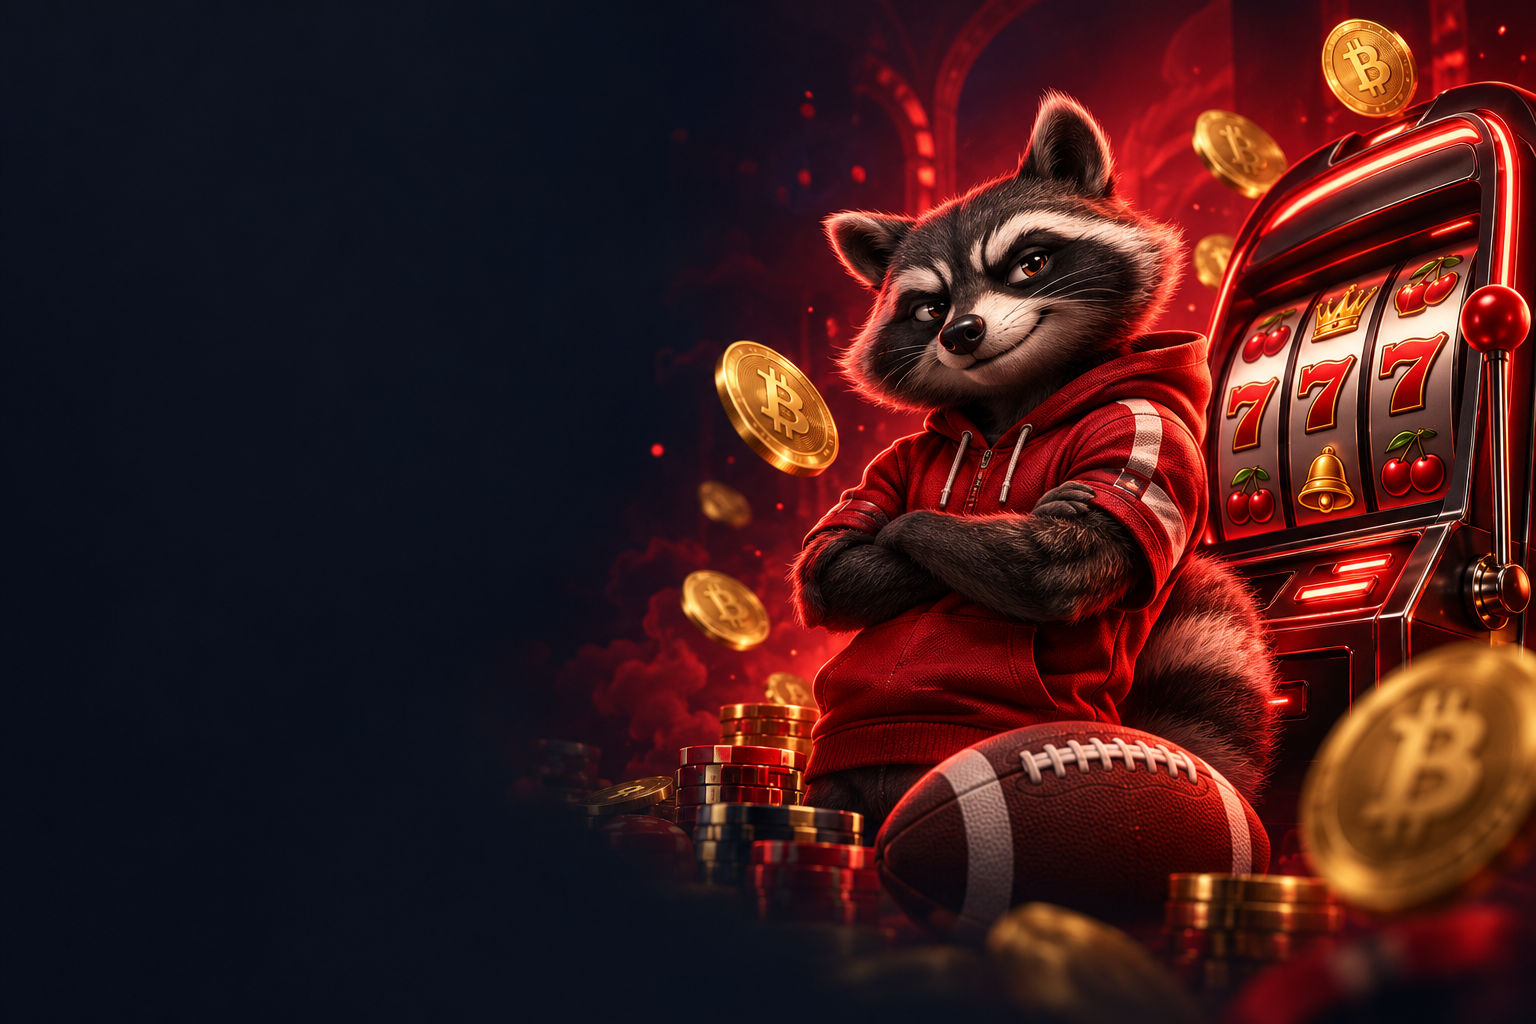
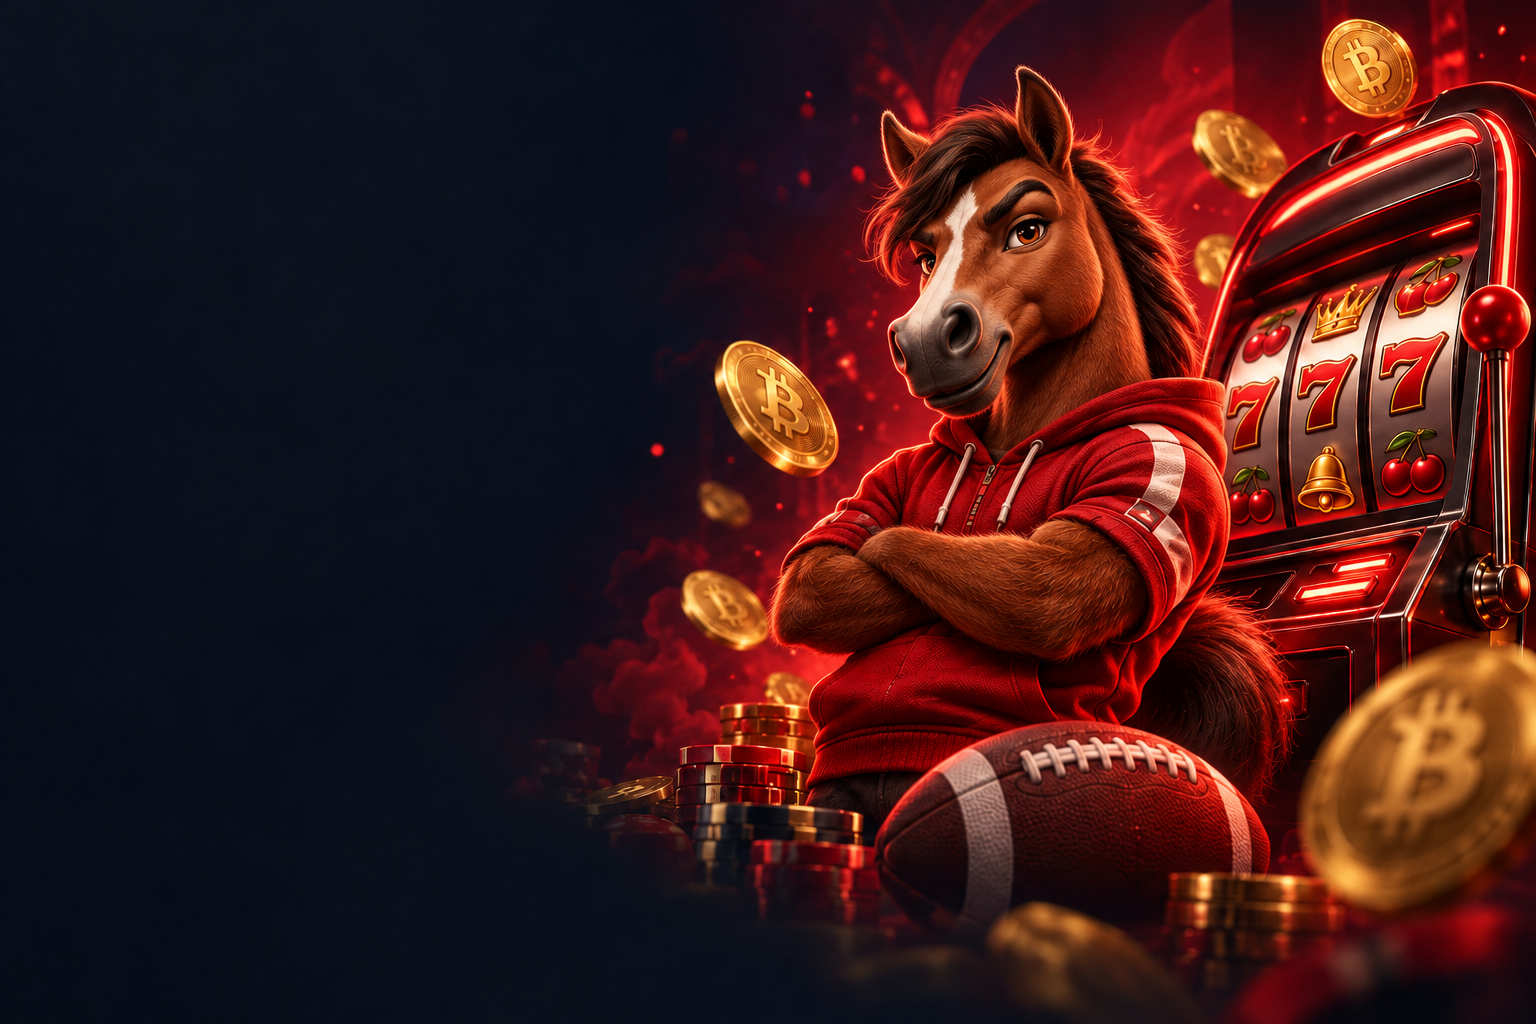
Update Site source

diff --git a/components/CasinoApp.jsx b/components/CasinoApp.jsx
@@ -46,9 +46,9 @@ export default function CasinoApp() {
   const [query, setQuery] = useState("");
   const [sport, setSport] = useState("Fútbol");
   useEffect(() => {
-    const savedFavorites = readLocal("betfury-demo-favorites", []);
+    const savedFavorites = readLocal("horsebet-demo-favorites", []);
     setFavorites(Array.isArray(savedFavorites) ? savedFavorites : []);
-    const savedUser = readLocal("betfury-demo-user", "");
+    const savedUser = readLocal("horsebet-demo-user", "");
     setUser(typeof savedUser === "string" ? savedUser : "");
     const syncHash = () => {
       const page = window.location.hash.slice(1);
@@ -84,7 +84,7 @@ export default function CasinoApp() {
       const next = previous.includes(id)
         ? previous.filter((item) => item !== id)
         : [...previous, id];
-      saveLocal("betfury-demo-favorites", next);
+      saveLocal("horsebet-demo-favorites", next);
       return next;
     });
   const onPlay = (game) => setModal({ type: "game", game });
@@ -123,7 +123,7 @@ export default function CasinoApp() {
           <>
             <Hero onAction={open} />
             <div className="content">
-              <section className="destinations" aria-label="Explora BetFury">
+              <section className="destinations" aria-label="Explora HorseBet">
                 <button
                   className="destination destination--casino"
                   onClick={() => navigate("Casino")}
@@ -131,7 +131,7 @@ export default function CasinoApp() {
                   <span>
                     <strong>Casino</strong>
                     <span>
-                      Disfruta de BetFury Originals y otros juegos de
+                      Disfruta de HorseBet Originals y otros juegos de
                       <br className="desktop-break" /> casino de los mejores
                       proveedores.
                     </span>
@@ -269,7 +269,7 @@ export default function CasinoApp() {
                 ))}
               </section>
               <section className="about">
-                <h2>BetFury — Casino Cripto y Deportes</h2>
+                <h2>HorseBet — Casino Cripto y Deportes</h2>
                 <p>
                   Todo un universo de entretenimiento en un solo lugar. Descubre
                   juegos originales, explora tus slots favoritos y disfruta de
@@ -394,12 +394,12 @@ export default function CasinoApp() {
           user={user}
           onAuth={(alias) => {
             setUser(alias);
-            saveLocal("betfury-demo-user", alias);
+            saveLocal("horsebet-demo-user", alias);
             setModal(null);
           }}
           onLogout={() => {
             setUser("");
-            saveLocal("betfury-demo-user", "");
+            saveLocal("horsebet-demo-user", "");
             setModal(null);
           }}
         />

diff --git a/data/content.js b/data/content.js
@@ -37,36 +37,36 @@ export const originals = [
   {
     id: "dice",
     title: "Dice",
-    provider: "BETFURY",
+    provider: "HORSEBET",
     object: "dice",
     color: "green",
   },
-  { id: "gems", title: "Gems", provider: "BETFURY", art: 1, color: "purple" },
+  { id: "gems", title: "Gems", provider: "HORSEBET", art: 1, color: "purple" },
   {
     id: "space",
     title: "Space Dice",
-    provider: "BETFURY",
+    provider: "HORSEBET",
     object: "dice",
     color: "blue",
   },
   {
     id: "coin",
     title: "Coin Flip",
-    provider: "BETFURY",
+    provider: "HORSEBET",
     object: "coins",
     color: "gold",
   },
   {
     id: "plinko",
     title: "Plinko",
-    provider: "BETFURY",
+    provider: "HORSEBET",
     special: "plinko",
     color: "red",
   },
   {
     id: "crash",
     title: "Crash",
-    provider: "BETFURY",
+    provider: "HORSEBET",
     special: "crash",
     color: "pink",
   },
@@ -122,10 +122,10 @@ export const information = {
   Torneos: [
     "La emoción de competir",
     "Explora los torneos de Slots, Originals y Deportes.",
-    "Clasificación de ejemplo: 1. FuryPlayer · 2. LuckyFox · 3. CryptoAce",
+    "Clasificación de ejemplo: 1. HorsePlayer · 2. LuckyFox · 3. CryptoAce",
   ],
   Afiliados: [
-    "Crece con BetFury",
+    "Crece con HorseBet",
     "Descubre el programa de afiliados y las herramientas para creadores.",
   ],
   Comunidad: [
@@ -133,7 +133,7 @@ export const information = {
     "Comparte tu pasión por los juegos y descubre las novedades.",
   ],
   Novedades: [
-    "Lo último en BetFury",
+    "Lo último en HorseBet",
     "Nuevos juegos, nuevas experiencias y más entretenimiento cada semana.",
   ],
   Ayuda: [

diff --git a/components/Brand.jsx b/components/Brand.jsx
@@ -1,25 +1,31 @@
 export default function Brand() {
   return (
-    <span className="brand" aria-label="BetFury">
+    <span className="brand" aria-label="HorseBet">
       <svg
         className="brand__mark"
-        viewBox="0 0 48 44"
+        viewBox="0 0 48 48"
         fill="none"
         aria-hidden="true"
       >
         <path
-          d="M6 20 5 4l14 8h10L43 4l-1 16 3 12-12 9H15L3 32Z"
-          fill="#dce3ed"
-          stroke="#697484"
-          strokeWidth="2"
+          d="M13 44c3-8 6-12 10-15l-9 5-8-6 7-13 8-6 3-7 5 7 7 3 6 11-2 21H13Z"
+          fill="#392620"
+          stroke="#edc19b"
+          strokeWidth="1.5"
+          strokeLinejoin="round"
         />
-        <path d="m8 8 9 7-8 4m31-11-9 7 8 4" fill="#ff174b" />
-        <path d="m6 24 10-7 8 5 8-5 10 7-7 11-11-5-11 5Z" fill="#17202c" />
-        <path d="m12 24 8 3-5 3m21-6-8 3 5 3" fill="white" />
-        <path d="m19 32 5-3 5 3-5 5Z" fill="#10151d" />
+        <path d="m28 8 8 4 6 11-2 21h-9l1-18-4-18Z" fill="#ff174b" />
+        <path d="m22 10 6 2 7 10-5 7-9 3-7 2-8-6 7-13 9-5Z" fill="#bc743e" />
+        <path d="m23 11 3 2-7 13-6 5-5-4 7-12 8-4Z" fill="#f2e4d5" />
+        <path d="m13 25 8 3-6 5-8-5 6-3Z" fill="#8c512f" />
+        <path d="m21 17 7 1-5 4-2-5Z" fill="#201a18" />
+        <path d="m23 18 3 1-2 1-1-2Z" fill="white" />
+        <path d="m23 8 1-4 2 5-3-1Z" fill="#f5cfaf" />
+        <ellipse cx="11.8" cy="27.2" rx="1.6" ry="1.2" fill="#2e211c" />
+        <path d="m31 33 6 5-1 6H20l11-11Z" fill="#a42a32" />
       </svg>
       <span>
-        BET<span className="brand__accent">FURY</span>
+        HORSE<span className="brand__accent">BET</span>
       </span>
     </span>
   );

diff --git a/components/SiteShell.jsx b/components/SiteShell.jsx
@@ -50,7 +50,7 @@ export function Header({ onNavigate, onAction, expanded, setExpanded, user }) {
         </button>
         <button
           className="header__home"
-          aria-label="BetFury: inicio"
+          aria-label="HorseBet: inicio"
           onClick={() => onNavigate("Inicio")}
         >
           <Brand />
@@ -254,14 +254,13 @@ export function Footer({ onAction }) {
       <div className="footer__legal">
         <span className="footer__age">18+</span>
         <p>
-          Recreación independiente de la interfaz de BetFury. Proyecto de
-          demostración con imágenes originales generadas con IA. No está
-          afiliado a BetFury y no permite apuestas, depósitos ni pagos reales.
-          Los importes y eventos son ilustrativos.
+          HorseBet es un proyecto de demostración con imágenes originales
+          generadas con IA. Esta versión no permite apuestas, depósitos ni pagos
+          reales. Los importes y eventos son ilustrativos.
         </p>
       </div>
       <div className="footer__copyright">
-        <span>© 2026 · Demo de diseño BetFury</span>
+        <span>© 2026 · Demo de diseño HorseBet</span>
         <button onClick={() => onAction("Juego responsable")}>
           Juega responsablemente
         </button>

diff --git a/app/layout.jsx b/app/layout.jsx
@@ -1,9 +1,9 @@
 import "./globals.css";
 
 export const metadata = {
-  title: "BetFury — Casino & Deportes | Demo de diseño",
+  title: "HorseBet — Casino & Deportes | Demo de diseño",
   description:
-    "Recreación visual de BetFury con ilustraciones originales. Demostración de interfaz sin apuestas reales.",
+    "Recreación visual de HorseBet con ilustraciones originales. Demostración de interfaz sin apuestas reales.",
   robots: { index: false, follow: false },
 };
 

diff --git a/components/Modal.jsx b/components/Modal.jsx
@@ -158,7 +158,7 @@ export default function Modal({ modal, onClose, onAuth, user, onLogout }) {
         </>
       ) : (
         <>
-          <div className="modal__label">BETFURY · DEMO</div>
+          <div className="modal__label">HORSEBET · DEMO</div>
           <h2 id="modal-title">{modal.type}</h2>
           {(content || ["Explora esta experiencia de demostración."]).map(
             (paragraph, i) =>

diff --git a/components/Hero.jsx b/components/Hero.jsx
@@ -40,7 +40,7 @@ export default function Hero({ onAction }) {
       <img
         className="hero__art"
         src="/images/hero.png"
-        alt="Mapache con sudadera roja junto a una máquina de casino y monedas doradas"
+        alt="Caballo con sudadera roja junto a una máquina de casino y monedas doradas"
         fetchPriority="high"
       />
       <div className="hero__content" key={active}>

diff --git a/app/globals.css b/app/globals.css
@@ -353,7 +353,7 @@ h2 {
   width: 67%;
   height: 100%;
   object-fit: cover;
-  object-position: 65% 47%;
+  object-position: 65% 25%;
   mask-image: linear-gradient(to right, transparent, #000 23%);
 }
 .hero::after {

diff --git a/docs/image-prompts.md b/docs/image-prompts.md
@@ -1,10 +1,10 @@
-# Imágenes originales
+# Imágenes originales de HorseBet
 
-Generadas con la herramienta integrada ImageGen. No se descargaron ilustraciones del sitio de referencia. Los archivos se encuentran en `public/images/`: hero.png, games.png y objects.png. El catálogo y los objetos usan atlas CSS para reutilizar una sola descarga.
+Generadas con la herramienta integrada ImageGen. Los archivos están guardados en `public/images/`: `hero.png` (caballo), `games.png` y `objects.png`. Los dos últimos son atlas reutilizados mediante CSS. El logotipo se representa con un SVG original de caballo en `components/Brand.jsx`.
 
 ## hero
 
-Use case: stylized-concept. Asset type: wide casino website hero background, 1536x1024. Create an original polished high-end 3D videogame advertising illustration, for a dark navy and vivid red casino brand. On the RIGHT HALF: charismatic mischievous raccoon mascot with black and white facial markings wearing a red sports hoodie, standing beside a sleek red arcade slot machine and floating golden bitcoin coins, with a football at the bottom. Cinematic red rim lighting, detailed glossy materials. Background dark midnight navy #11161e with burgundy red glow upper right. LEFT HALF MUST BE EMPTY smooth very dark navy for HTML heading placement. Objects fade softly into dark navy at bottom. Confident playful atmosphere. No text, no lettering, no logo, no watermark.
+Use case: precise-object-edit. Asset type: website hero banner for HORSEBET. Edit the supplied image: replace ONLY the raccoon mascot with an original charismatic anthropomorphic HORSE mascot in the same high-end polished 3D cartoon style and same pose, wearing the same red hoodie. The horse has a recognizable long equine muzzle, expressive friendly confident eyes, upright horse ears, a dark brown mane, chestnut brown fur with a subtle white facial blaze, and folded arms. It must clearly look like a horse, NOT a raccoon, no black eye mask or raccoon markings. Keep the existing red arcade machine, floating gold bitcoin coins, ball, background, cinematic red lighting, dramatic atmosphere, composition, empty dark navy left half for HTML text, and overall dimensions unchanged. No visible wordmarks, no lettering, no watermarks. Preserve high quality 3D materials and coherent anatomy.
 
 ## games
 
@@ -13,3 +13,4 @@ Use case: stylized-concept. Asset type: single game-cover sprite atlas for a web
 ## objects
 
 Use case: stylized-concept. Asset type: single transparent object sprite atlas, square 1024x1024. Exactly 4 isolated original glossy 3D objects on a transparent background in an evenly spaced 2x2 grid, with generous padding in each quadrant: upper left a white rounded casino die with red and black pips angled dynamically; upper right a realistic black and white soccer ball illuminated with cool blue rim lighting; lower left stacked gold bitcoin coins with warm glowing highlights; lower right a luxurious red gift box with shiny golden ribbon. High-end casino advertising 3D, dramatic lighting, no floor or connecting elements, no text except bitcoin symbols. Objects centered in their quadrant, no overlap.
+

diff --git a/README.md b/README.md
@@ -1,4 +1,4 @@
-# BetFury · recreación de interfaz
+# HorseBet · Casino y Deportes
 
 Proyecto Next.js con App Router, React y **JSX**, CSS convencional con metodología **BEM**, sin TypeScript y sin Tailwind. Inspirado en la página española de BetFury, con paleta oscura, acentos rojos y recursos gráficos originales generados con ImageGen.
 
@@ -42,7 +42,7 @@ El build genera una exportación estática en `out/`. Puede alojarse en cualquie
 
 ## Alcance
 
-Esta es una recreación visual independiente. No se conecta a BetFury, no contiene un motor de apuestas ni procesadores de pago, y no permite depósitos ni transacciones. Los importes, promociones y eventos son contenido ilustrativo. El logotipo se representa mediante texto y una marca vectorial original. Las fuentes Inter y Barlow Condensed se cargan desde Google Fonts con fuentes de sistema como alternativa.
+Esta es una recreación visual independiente. No se conecta a BetFury, no contiene un motor de apuestas ni procesadores de pago, y no permite depósitos ni transacciones. Los importes, promociones y eventos son contenido ilustrativo. El logotipo combina el nombre HorseBet con una cabeza de caballo vectorial original. El banner utiliza una mascota equina 3D generada con ImageGen. Las fuentes Inter y Barlow Condensed se cargan desde Google Fonts con fuentes de sistema como alternativa.
 
 ## Verificación
 
